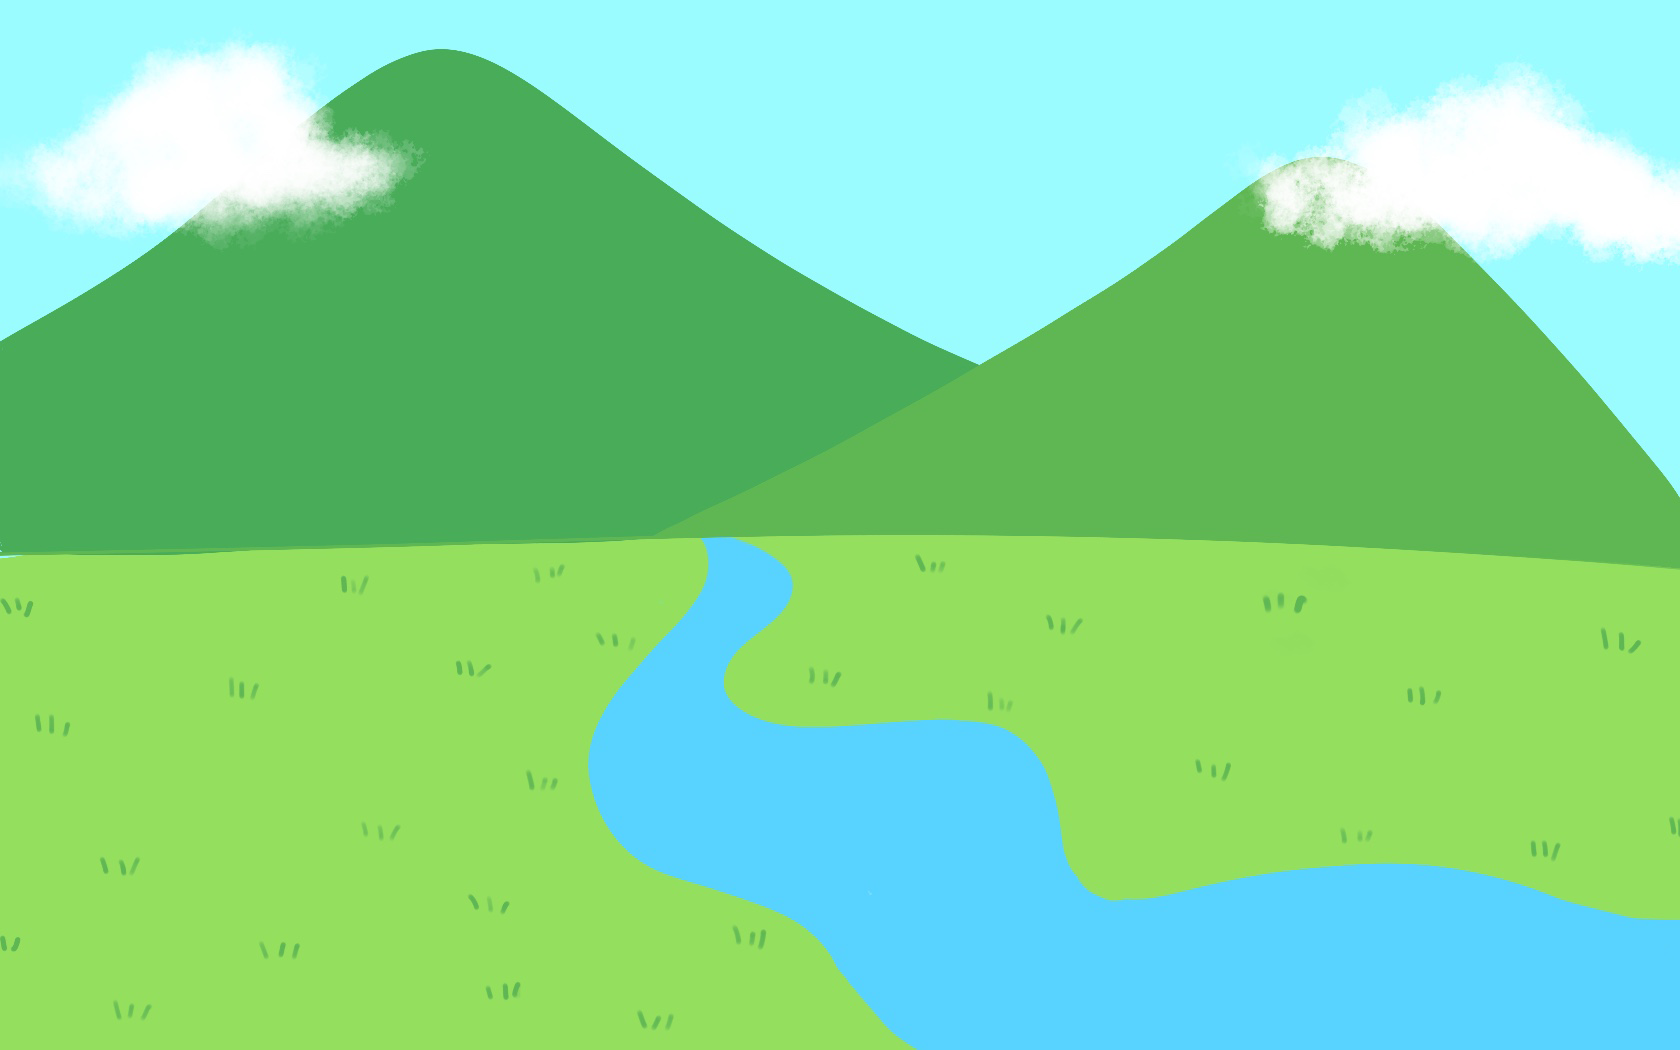
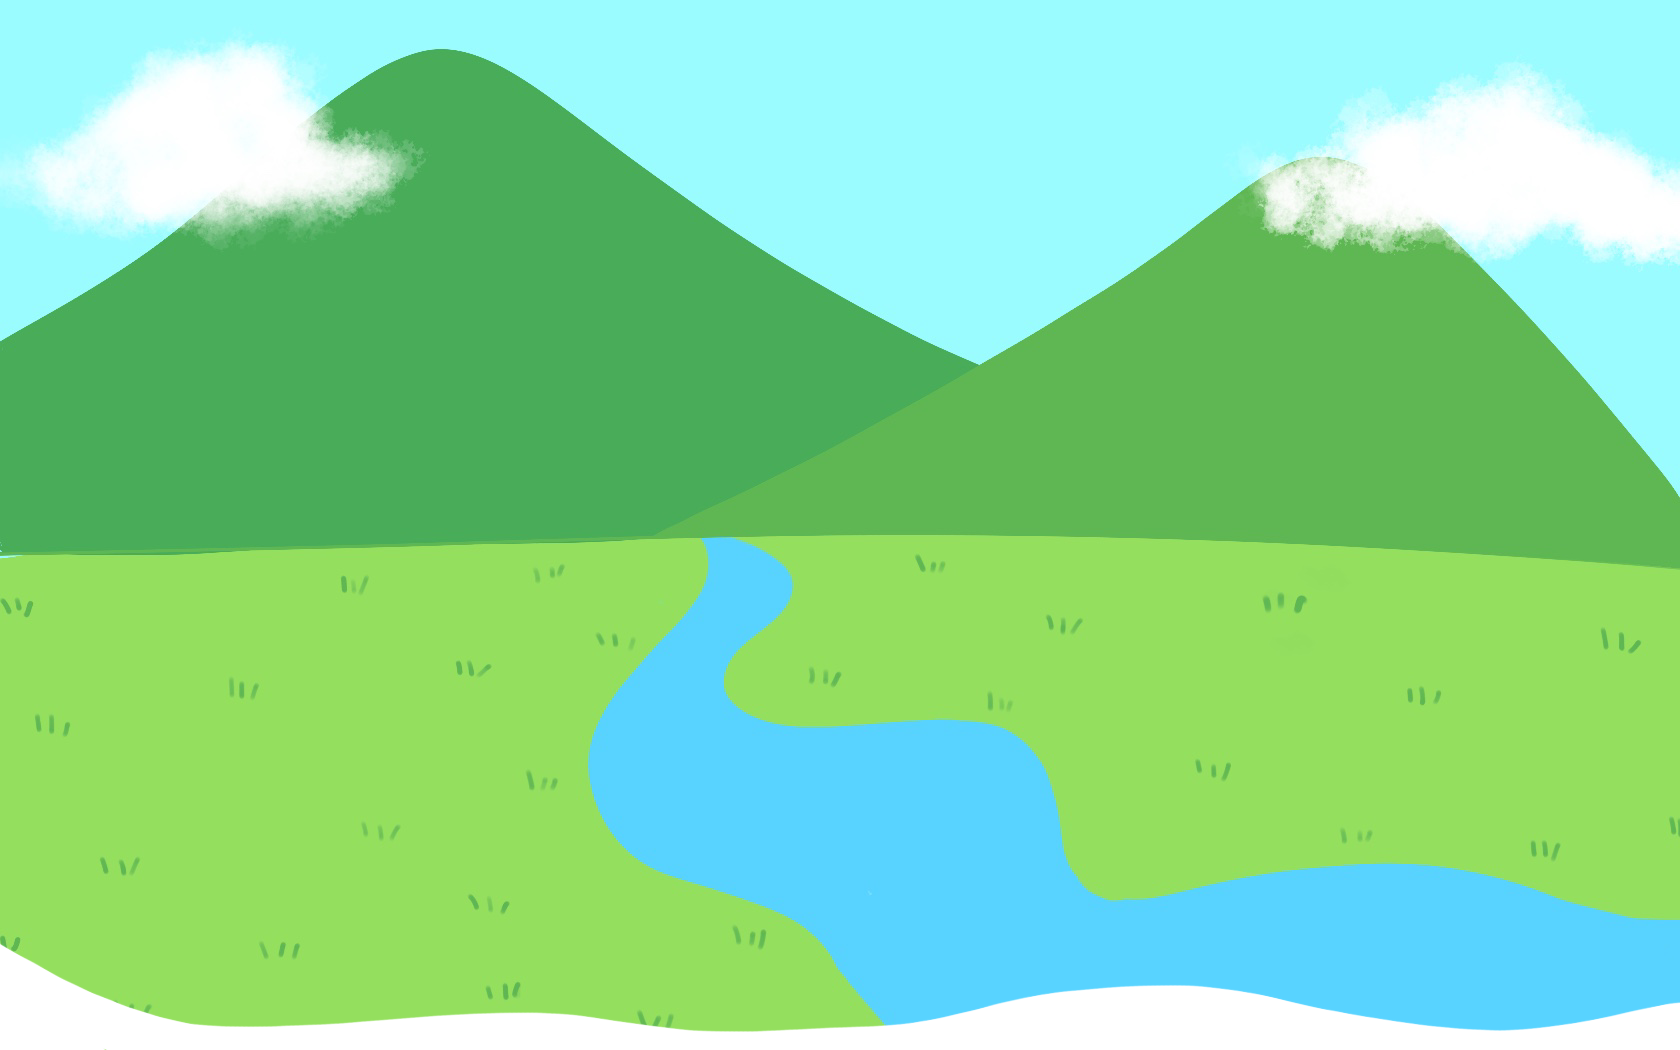
:arrow_up_small: update

Changed region(s): [[0.0, 0.8838, 1.0, 1.0]]

diff --git a/index.html b/index.html
@@ -115,9 +115,10 @@
     </section>
 
     <section id="page3" class="page">
+        <div class="dropbox"></div>
         <img class="house1" src="./img/house1.png" alt="house1">
-        <img class="glass" src="./img/glass.png" alt="glass">
-        <img class="truck" alt="truck" src="./img/truck.png" />
+        <img class="dirt" src="./img/dirt.png" alt="dirt">
+        <img class="truck" alt="truck" src="./img/truck.png" >
         <div id="quote4" class="q-set q-size-nb qoute">
             “น้ำสะอาด” จากห้วยน้ำ ลำธาร ถือเป็นหัวใจหลักในการทำเกษตรกรรม รวมถึงเป็นน้ำที่ใช้อุปโภค บริโภค
             ในบางปีที่น้ำฝนไม่เพียงพอ เกษตรกรจำเป็นต้องบรรทุกน้ำใส่รถกระบะ เพื่อใช้ทำการเกษตร
@@ -149,7 +150,6 @@
     <section id="page4" class="page">
         <img class="gognam" src="./img/gognum1.png" alt="gognam">
         <img class="drop" src="./img/drop.png" alt="drop">
-        <div class="dropbox"></div>
         <div id="quote5" class="q-set q-size-n qoute">
             จะมีท่อส่งน้ำจากต้นน้ำไปยังบ้านทุกหลัง ให้ทุกคนได้เข้าถึงน้ำสะอาดที่ใช้ในการอุปโภค บริโภค และการเกษตร
             น้ำสายนี้ที่เย็นชื่นใจชาวบ้านจะเรียกว่า”น้ำประปาภูเขา
@@ -189,12 +189,14 @@
         <img class="stalactitie1" src="./img/stalactitie1.png" alt="stalactitie1">
         <img class="stalactite2" src="./img/stalactite2.png" alt="stalactite2">
         <img class="pickaxe" src="./img/pickaxe.png" alt="pickaxe">
+      
         <div class="paper">
             <div id="quote6" class="text qoute q-size-n q-paper">ในปี 2543
                 ได้มีการยื่นคำขอประทานบัตรทำเหมืองถ่านหินจากกรมอุตสาหกรรมพื้นฐานและการเหมืองแร่
                 ระยะเวลาในการยื่นขอทำสัมปทาน 10 ปี หากโครงการเหมืองแห่งนี้เกิดขึ้นจริง
                 อาจส่งผลให้ชุมชนไม่สามารถใช้ทรัพยากรแห่งนี้เพื่อปลูกพืชผลทางการเกษตรรวมถึงใช้อุปโภคบริโภคในชีวิตประจำวันได้อีกต่อไป
             </div>
+            <img class="submit" src="./img/submit.png" alt="submit">
         </div>
         <div id="quote7" class="q-set q-size-n qoute">
             นี่ไม่ใช่ปัญหาที่มีแค่ชุมชนในอมก๋อยเผชิญ แต่รวมถึงพืชผลทางการเกษตรที่จะได้รับผลกระทบไปด้วย
@@ -250,14 +252,20 @@
                     .addIndicators({ name: "rock" })
                     .addTo(controller);
 
-                // let tween3 = TweenMax.to(".rock3", 1, { ease: Linear.easeNone, opacity: 1 });
+                let tween3 = TweenMax.to(".submit", 1, { ease: Linear.easeNone, scale:1});
 
                 let scene3 = new ScrollMagic.Scene({
                     triggerElement: ".paper",
-                    duration: 500,
-                    offset: 0,
+                    duration: 700,
+                    offset: 250,
                 })
-                    // .setTween(tween3)
+                    .setTween(tween3)
+                    .on('leave', () => {
+                        $('.submit').hide().delay(500);
+                    })
+                    .on('start', () => {
+                        $('.submit').show().delay(500);
+                    })
                     .addIndicators({ name: "paper" })
                     .addTo(controller);
             });

diff --git a/css/style.sass b/css/style.sass
@@ -51,12 +51,14 @@ body
     @extend %image-sets
     width: 10vw
     margin-left: 12%
+    z-index: 99
 
 .tat
     @extend %image-sets
     margin-top: -23%
     margin-left: 33%
     width: 50vw
+    z-index: 999
 
 .truck
     @extend  %image-sets
@@ -72,10 +74,12 @@ body
     margin-left: 0%
     z-index: 99
 
-.glass
+.dirt
     position: absolute
     width: 100%
-    height: 10px
+    height: 100%
+    margin-top: -50%
+    z-index: 1
 
 .gognam
     @extend  %image-sets
@@ -96,12 +100,12 @@ body
     height: 400px
 
 .dropbox
-    width: 100vw
-    height: 25%
-    margin-top: -47%
     position: absolute
-    z-index: -1
-    background: linear-gradient(0deg, rgba(255,255,255,1) 0%, rgba(148,223,94,1) 60%)
+    width: 100vw
+    height: 35%
+    background: #9afcff
+    margin-top: -15%
+    z-index: 1
 
 .box
     position: relative
@@ -110,6 +114,15 @@ body
     background: rgb(88,211,255)
     background: linear-gradient(180deg, rgba(88,211,255,1) 0%, rgba(72,126,145,1) 54%, rgba(82,58,47,1) 100%)
     margin-top: -1%
+
+.submit
+    display: inline-block
+    position: absolute
+    width: 10vw
+    margin-top: 85%
+    margin-left: -36%
+    z-index: 99
+    transform: scale(2.5)
 
 .stalactitie1
     @extend %image-sets
@@ -133,7 +146,7 @@ body
 .paper
     display: block
     position: absolute
-    height: 35rem
+    height: 100%
     width: 40%
     background: #ffedd2
     margin-left: 12%
@@ -256,13 +269,14 @@ body
     margin-left: 5%
     width: 38%
     text-align: start
+    color: #fff
 
 #quote4
-    text-indent: 50px
+    text-indent: 4em
     line-height: 1.8
     margin-top: -13%
     margin-left: 50%
-    width: 35rem
+    width: 39rem
     text-align: start
 
 #quote5
@@ -351,7 +365,7 @@ body
     background-image: url('../img/bg_mountain.jpg')
     background-repeat: no-repeat
     background-size: 100% 100%
-    min-height: 100vh
+    min-height: 108vh
     width: 100vw
 
 #page5

diff --git a/css/style.css b/css/style.css
@@ -63,12 +63,14 @@ body {
 .tomato {
   width: 10vw;
   margin-left: 12%;
+  z-index: 99;
 }
 
 .tat {
   margin-top: -23%;
   margin-left: 33%;
   width: 50vw;
+  z-index: 999;
 }
 
 .truck {
@@ -87,10 +89,12 @@ body {
   z-index: 99;
 }
 
-.glass {
+.dirt {
   position: absolute;
   width: 100%;
-  height: 10px;
+  height: 100%;
+  margin-top: -50%;
+  z-index: 1;
 }
 
 .gognam {
@@ -113,13 +117,12 @@ body {
 }
 
 .dropbox {
-  width: 100vw;
-  height: 25%;
-  margin-top: -47%;
   position: absolute;
-  z-index: -1;
-  background: -webkit-gradient(linear, left bottom, left top, from(white), color-stop(60%, #94df5e));
-  background: linear-gradient(0deg, white 0%, #94df5e 60%);
+  width: 100vw;
+  height: 35%;
+  background: #9afcff;
+  margin-top: -15%;
+  z-index: 1;
 }
 
 .box {
@@ -130,6 +133,17 @@ body {
   background: -webkit-gradient(linear, left top, left bottom, from(#58d3ff), color-stop(54%, #487e91), to(#523a2f));
   background: linear-gradient(180deg, #58d3ff 0%, #487e91 54%, #523a2f 100%);
   margin-top: -1%;
+}
+
+.submit {
+  display: inline-block;
+  position: absolute;
+  width: 10vw;
+  margin-top: 85%;
+  margin-left: -36%;
+  z-index: 99;
+  -webkit-transform: scale(2.5);
+          transform: scale(2.5);
 }
 
 .stalactitie1 {
@@ -155,7 +169,7 @@ body {
 .paper {
   display: block;
   position: absolute;
-  height: 35rem;
+  height: 100%;
   width: 40%;
   background: #ffedd2;
   margin-left: 12%;
@@ -301,14 +315,15 @@ body {
   margin-left: 5%;
   width: 38%;
   text-align: start;
+  color: #fff;
 }
 
 #quote4 {
-  text-indent: 50px;
+  text-indent: 4em;
   line-height: 1.8;
   margin-top: -13%;
   margin-left: 50%;
-  width: 35rem;
+  width: 39rem;
   text-align: start;
 }
 
@@ -417,7 +432,7 @@ body {
   background-image: url("../img/bg_mountain.jpg");
   background-repeat: no-repeat;
   background-size: 100% 100%;
-  min-height: 100vh;
+  min-height: 108vh;
   width: 100vw;
 }
 
